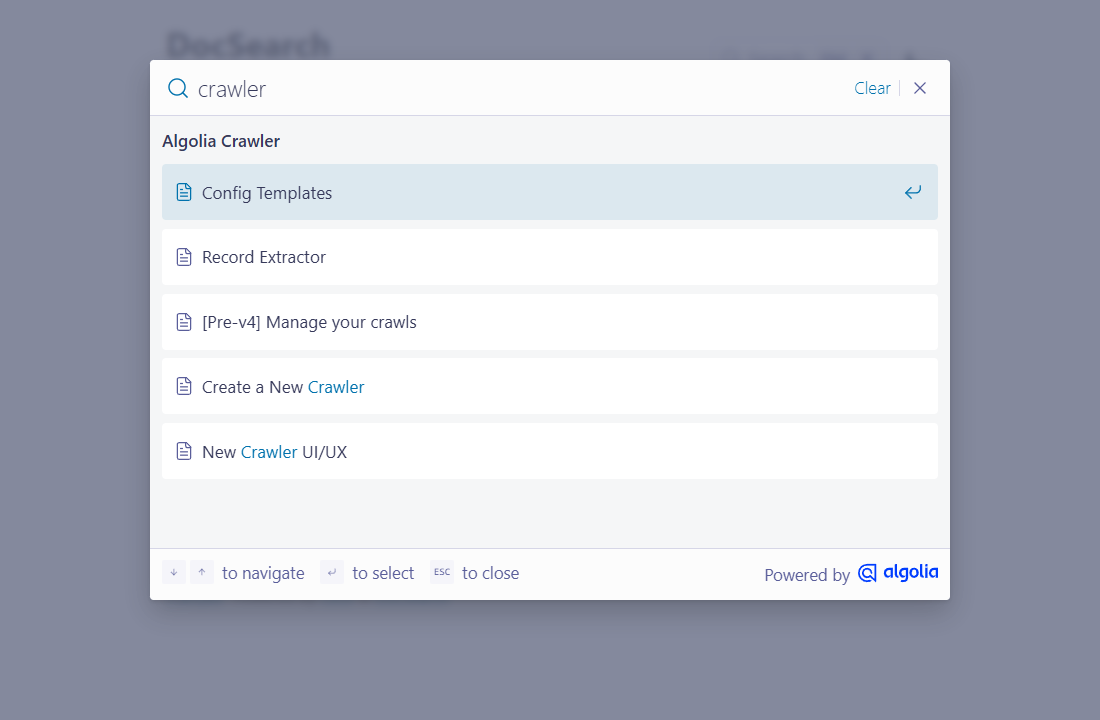
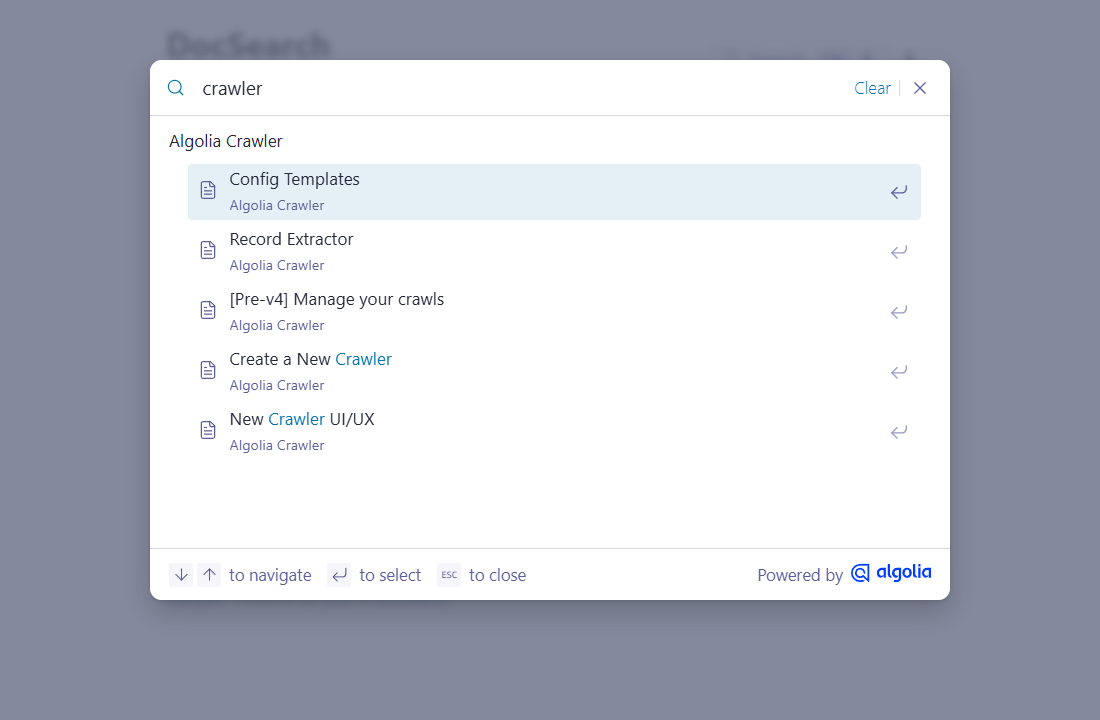
Migrate to DocSearch v5 and add Ask AI support (#3)
- Use DocSearch v5 by default (`version: '5'`); v4 is no longer supported
- Load the keyword search bundle (`docsearch.min.js`) by default, and the
  Ask AI bundle (`index.min.js`) when `askAi` is set
- Add the `askAi` option: Agent Studio agent ID, or `askAi` options passed
  as is to DocSearch
- Filter Ask AI sources on the current language (`filters: 'lang:<language>'`
  on the index), unless `filters` is set
- Remove the `debug` option, never passed by DocSearch to the modal
- Remove the `noRecentSearchesText` translation, removed since v4
- Reset more Pico CSS styles in the search modal: `li` and `section` bottom
  margin, `kbd` padding and weight, input font size of v5
- Set the search input height to `auto`, so the input text isn't cropped
  when the root font size is larger than 16px
- Demo: set `--docsearch-hit-focus-background`, the selected hit background
  in v5
- README: Ask AI section, v5 requirement and `lang` facet source
- Screenshot updated to v5, with a dark mode version
- Set the main branch alias to 3.x-dev

diff --git a/README.md b/README.md
@@ -2,13 +2,17 @@
 
 The _DocSearch_ component theme for [Cecil](https://cecil.app) adds [Algolia DocSearch](https://docsearch.algolia.com) to a website: a search button and a search modal, querying an Algolia index of the website.
 
-![Screenshot](docs/screenshot.png)
+<picture>
+  <source media="(prefers-color-scheme: dark)" srcset="docs/screenshot-dark.png">
+  <img alt="Screenshot" src="docs/screenshot.png">
+</picture>
 
 **[Demo](https://cecilapp.github.io/theme-docsearch/)**
 
 ## Features
 
-- **DocSearch button and modal**: `Ctrl`/`⌘` + `K` shortcut, keyboard navigation, recent and favorite searches
+- **DocSearch v5 button and modal**: `Ctrl`/`⌘` + `K` and `/` shortcuts, keyboard navigation, recent and favorite searches
+- **Ask AI** (optional), with an Algolia Agent Studio agent
 - **Multilingual**: results are filtered on the current language
 - **Translatable** (English and French included)
 - **Light and dark modes**, following the `data-theme` attribute of the root element
@@ -77,23 +81,24 @@ docsearch:
   appId: '' # Algolia application ID
   apiKey: '' # Algolia search API key
   indexName: '' # Algolia index name
-  version: '4' # DocSearch version (4 or later), loaded from jsDelivr
+  version: '5' # DocSearch version (5 or later), loaded from jsDelivr
   library: '' # URL of the DocSearch JS library (overrides `version`)
   stylesheet: '' # URL of the DocSearch stylesheet (overrides `version`)
   container: '#docsearch' # CSS selector of the element replaced by the search button
   language: true # filter the results on the current language (`lang` facet)
   insights: false # send search events to Algolia Insights
-  debug: false # keep the modal open on blur (follows `debug` by default)
   placeholder: '' # placeholder of the search input ("Search docs" by default)
   search_parameters: {} # additional Algolia search parameters
+  askAi: '' # Ask AI: Agent Studio agent ID, or `askAi` options (disabled by default)
 ```
 
 > [!NOTE]
 > The DocSearch library and stylesheet are downloaded from jsDelivr at build time, and published with the website.
+> The theme requires DocSearch **v5**: `version` selects a v5 release (for example `'5.1'`), older versions are not supported.
 
 ### Language
 
-The `docsearch:language` meta tag is added to every page, so the crawler can store the language of each record in a `lang` facet. Results are then filtered on the current language (`facetFilters: ['lang:<language>']`). Set `language: false` if the index has no `lang` facet.
+Results are filtered on the current language with the `lang` facet (`facetFilters: ['lang:<language>']`), filled by the crawler with the `lang` attribute of the `<html>` element. Set `language: false` if the index has no `lang` facet. See [Crawler configuration](docs/crawler.md#language).
 
 Other [search parameters](https://www.algolia.com/doc/api-reference/search-api-parameters/) can be added (and `facetFilters` overridden) with `search_parameters`:
 
@@ -103,6 +108,40 @@ docsearch:
     facetFilters: ['lang:en', 'version:2']
     hitsPerPage: 10
 ```
+
+The search parameters are applied to the index (`indices: [{name: <indexName>, searchParameters: …}]`).
+
+### Ask AI
+
+[Ask AI](https://docsearch.algolia.com/docs/agent-studio/getting-started) answers questions in the search modal, with an Algolia Agent Studio agent. Set the agent ID to enable it:
+
+```yaml
+docsearch:
+  askAi: <YOUR_AGENT_ID>
+```
+
+Other `askAi` options can be set with a mapping, passed as is to DocSearch:
+
+```yaml
+docsearch:
+  askAi:
+    agentId: <YOUR_AGENT_ID>
+    suggestedQuestions: true
+```
+
+With `language` enabled, the sources of the answers are filtered on the current language too, with `filters: 'lang:<language>'` in the search parameters of the index (Ask AI doesn't support `facetFilters`). Set `filters` to override it:
+
+```yaml
+docsearch:
+  askAi:
+    agentId: <YOUR_AGENT_ID>
+    searchParameters:
+      <YOUR_INDEX_NAME>:
+        filters: 'lang:en AND version:2'
+```
+
+> [!NOTE]
+> With Ask AI, the full DocSearch library (`index.min.js`) is loaded instead of the keyword search library (`docsearch.min.js`), about twice as large. Ask AI texts are not translated by the theme.
 
 ### Container
 
